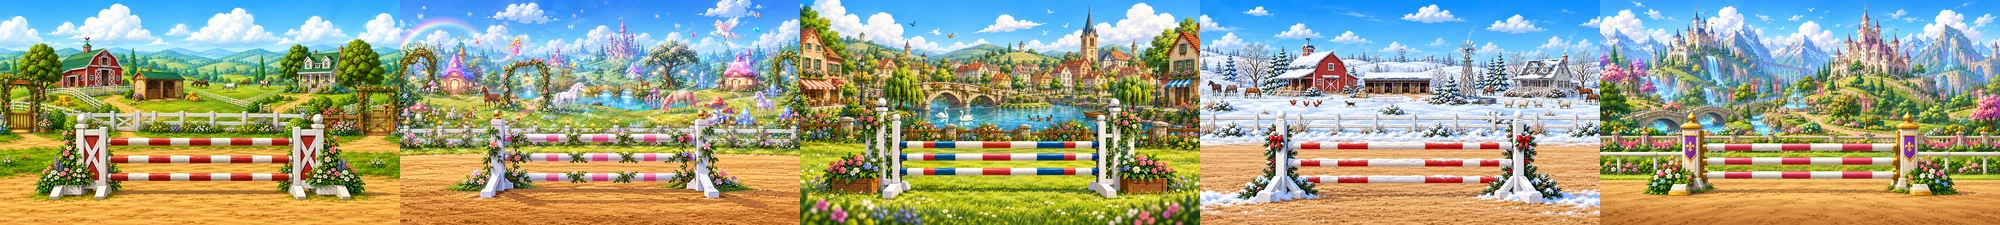
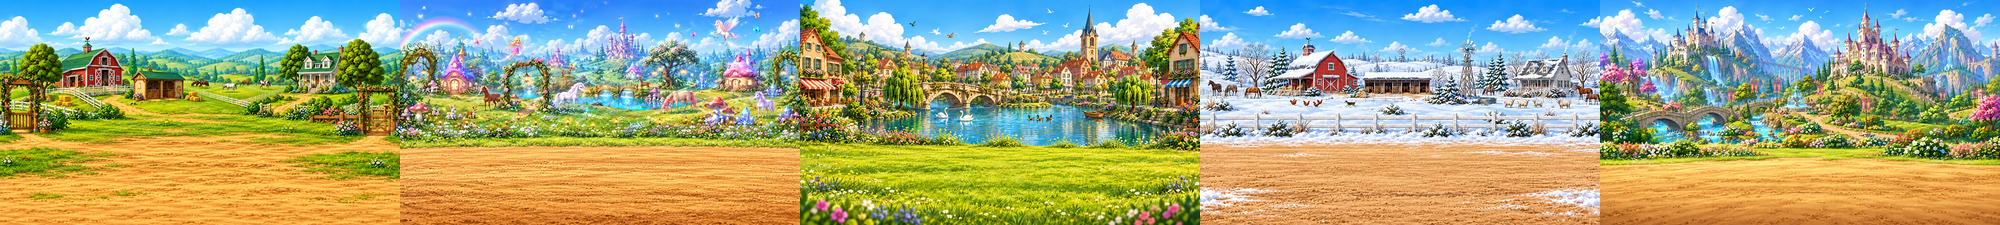
Deliver five landscape-only picker cards C1; opaque dimensions thumbnail browser and hash checks passed

diff --git a/americangirldollrace/index.html b/americangirldollrace/index.html
@@ -326,7 +326,7 @@
       </section>
     </main>
     <div id="barsHint" hidden><span class="bars-arrow" aria-hidden="true">↑</span> Swipe up to hide Safari’s bars · or Share → Add to Home Screen</div>
-    <script src="config.js?v=20261022-robot-delivery"></script>
+    <script src="config.js?v=20261023-cards1"></script>
     <script src="tracks.js?v=20261022-robot-delivery"></script>
     <script src="assets/audio/manifest.js?v=20261023-moremonsters"></script>
     <script src="audio.js?v=20261023-moremonsters"></script>
@@ -337,7 +337,7 @@
     <script src="mounts.js?v=20261022-robot-delivery"></script>
     <script src="broom.js?v=20261022-robot-delivery"></script>
     <script src="troll-art.js?v=20261022-robot-delivery"></script>
-    <script src="game.js?v=20261023-scarecrowsize"></script>
+    <script src="game.js?v=20261023-cards1"></script>
     <script src="menu.js?v=20261022-robot-delivery"></script>
     <script src="chrome.js?v=20261022-robot-delivery"></script>
 

diff --git a/americangirldollrace/game.js b/americangirldollrace/game.js
@@ -922,10 +922,10 @@ function preloadTrackArt(background) {
 
 function getTrackCard(background) {
   if (getTrackTheme(background).art?.includes("card")) {
-    return { url: `assets/tracks/${background.key}/card.webp`, cells: 1, index: 0 };
+    return { url: `assets/tracks/${background.key}/card.webp?v=${window.GAME_CONFIG?.trackCardArtVersion || "1"}`, cells: 1, index: 0 };
   }
   const index = BACKGROUNDS.indexOf(background);
-  if (index >= 0 && index < TRACK_CARD_ATLAS_CELLS) return { url: "assets/ui/track_cards.webp", cells: TRACK_CARD_ATLAS_CELLS, index };
+  if (index >= 0 && index < TRACK_CARD_ATLAS_CELLS) return { url: `assets/ui/track_cards.webp?v=${window.GAME_CONFIG?.trackCardArtVersion || "1"}`, cells: TRACK_CARD_ATLAS_CELLS, index };
   const url = getTrackTheme(background).art?.includes("background")
     ? `assets/tracks/${background.key}/background.webp`
     : images[background.imageKey]?.src;

diff --git a/americangirldollrace/config.js b/americangirldollrace/config.js
@@ -7,6 +7,7 @@
  */
 window.GAME_CONFIG = {
   powerupArtVersion: "20261022-emp3",
+  trackCardArtVersion: "20261023-cards1",
   dollArtVersion: "20261022-run-redo",
   // Set a doll to true to restore her original art, outfits and alignment.
   legacyDollArt: { rumi: false, claudia: false, marisol: false },

diff --git a/americangirldollrace/tools/tracks/card-redo/build.py b/americangirldollrace/tools/tracks/card-redo/build.py
@@ -1,0 +1,60 @@
+"""Export reviewed landscape-only track cards without touching race backgrounds."""
+from pathlib import Path
+from PIL import Image, ImageOps, ImageDraw
+import hashlib, json, sys
+
+H = Path(__file__).resolve().parent
+G = H.parents[2]
+KEYS = json.loads((H / 'keys.json').read_text())
+
+def build(keys):
+    atlas = Image.open(G / 'assets/ui/track_cards.webp').convert('RGB')
+    atlas_changed = False
+    for key in keys:
+        source = Image.open(H / f'sources/{key}.webp').convert('RGB')
+        art = ImageOps.fit(source, (400, 225), Image.Resampling.LANCZOS)
+        if key in KEYS[:5]:
+            index = KEYS.index(key)
+            atlas.paste(art, (index * 400, 0))
+            atlas_changed = True
+        else:
+            art.save(G / f'assets/tracks/{key}/card.webp', quality=90, method=6)
+    if atlas_changed:
+        atlas.save(G / 'assets/ui/track_cards.webp', lossless=True, exact=True, method=6)
+    for key in keys:
+        if key in KEYS[:5]:
+            path = G / 'assets/ui/track_cards.webp'
+            index = KEYS.index(key)
+            decoded = Image.open(path).crop((index*400, 0, index*400+400, 225)).convert('RGB')
+        else:
+            path = G / f'assets/tracks/{key}/card.webp'
+            decoded = Image.open(path).convert('RGB')
+        (H / f'reports/{key}.json').write_text(json.dumps({
+            'path': str(path.relative_to(G)), 'size': [400, 225],
+            'pixelSha256': hashlib.sha256(decoded.tobytes()).hexdigest()
+        }, indent=2) + '\n')
+
+def check():
+    contact = Image.new('RGB', (1000, 5*132), '#fff4e2')
+    draw = ImageDraw.Draw(contact)
+    for i, key in enumerate(KEYS):
+        report = H / f'reports/{key}.json'
+        if not report.exists():
+            continue
+        d = json.loads(report.read_text())
+        image = Image.open(G / d['path'])
+        assert image.mode == 'RGB'
+        if i < 5:
+            assert image.size == (2000, 225)
+            image = image.crop((i*400, 0, i*400+400, 225))
+        assert image.size == (400, 225)
+        assert hashlib.sha256(image.tobytes()).hexdigest() == d['pixelSha256']
+        contact.paste(image.resize((200, 113), Image.Resampling.LANCZOS), (i%5*200, i//5*132))
+        draw.text((i%5*200+5, i//5*132+114), key, fill='#24313b')
+        print(key, 'opaque 400x225 and reviewed pixel hash passed')
+    contact.crop((0, 0, 1000, 396)).save(H / 'reports/half-size-contact.webp', quality=90, method=6)
+
+if __name__ == '__main__':
+    if '--check' not in sys.argv:
+        build(sys.argv[1:] or KEYS)
+    check()

diff --git a/americangirldollrace/image-requests.md b/americangirldollrace/image-requests.md
@@ -785,3 +785,5 @@ feet sit on the same baseline in rows 1–3 and the figures are about the same
 size. Then race the Toy Room and the Beach on "Extra" monsters. Each one walks
 in, grabs and throws a doll (held in its hands), and after five knock-backs
 ends in its defeated pose.
+
+C1 delivered: the five original track cards are landscape-only. Native/half-size and browser card rendering passed; the ten C2 cards and M4/M5 are being verified separately.
